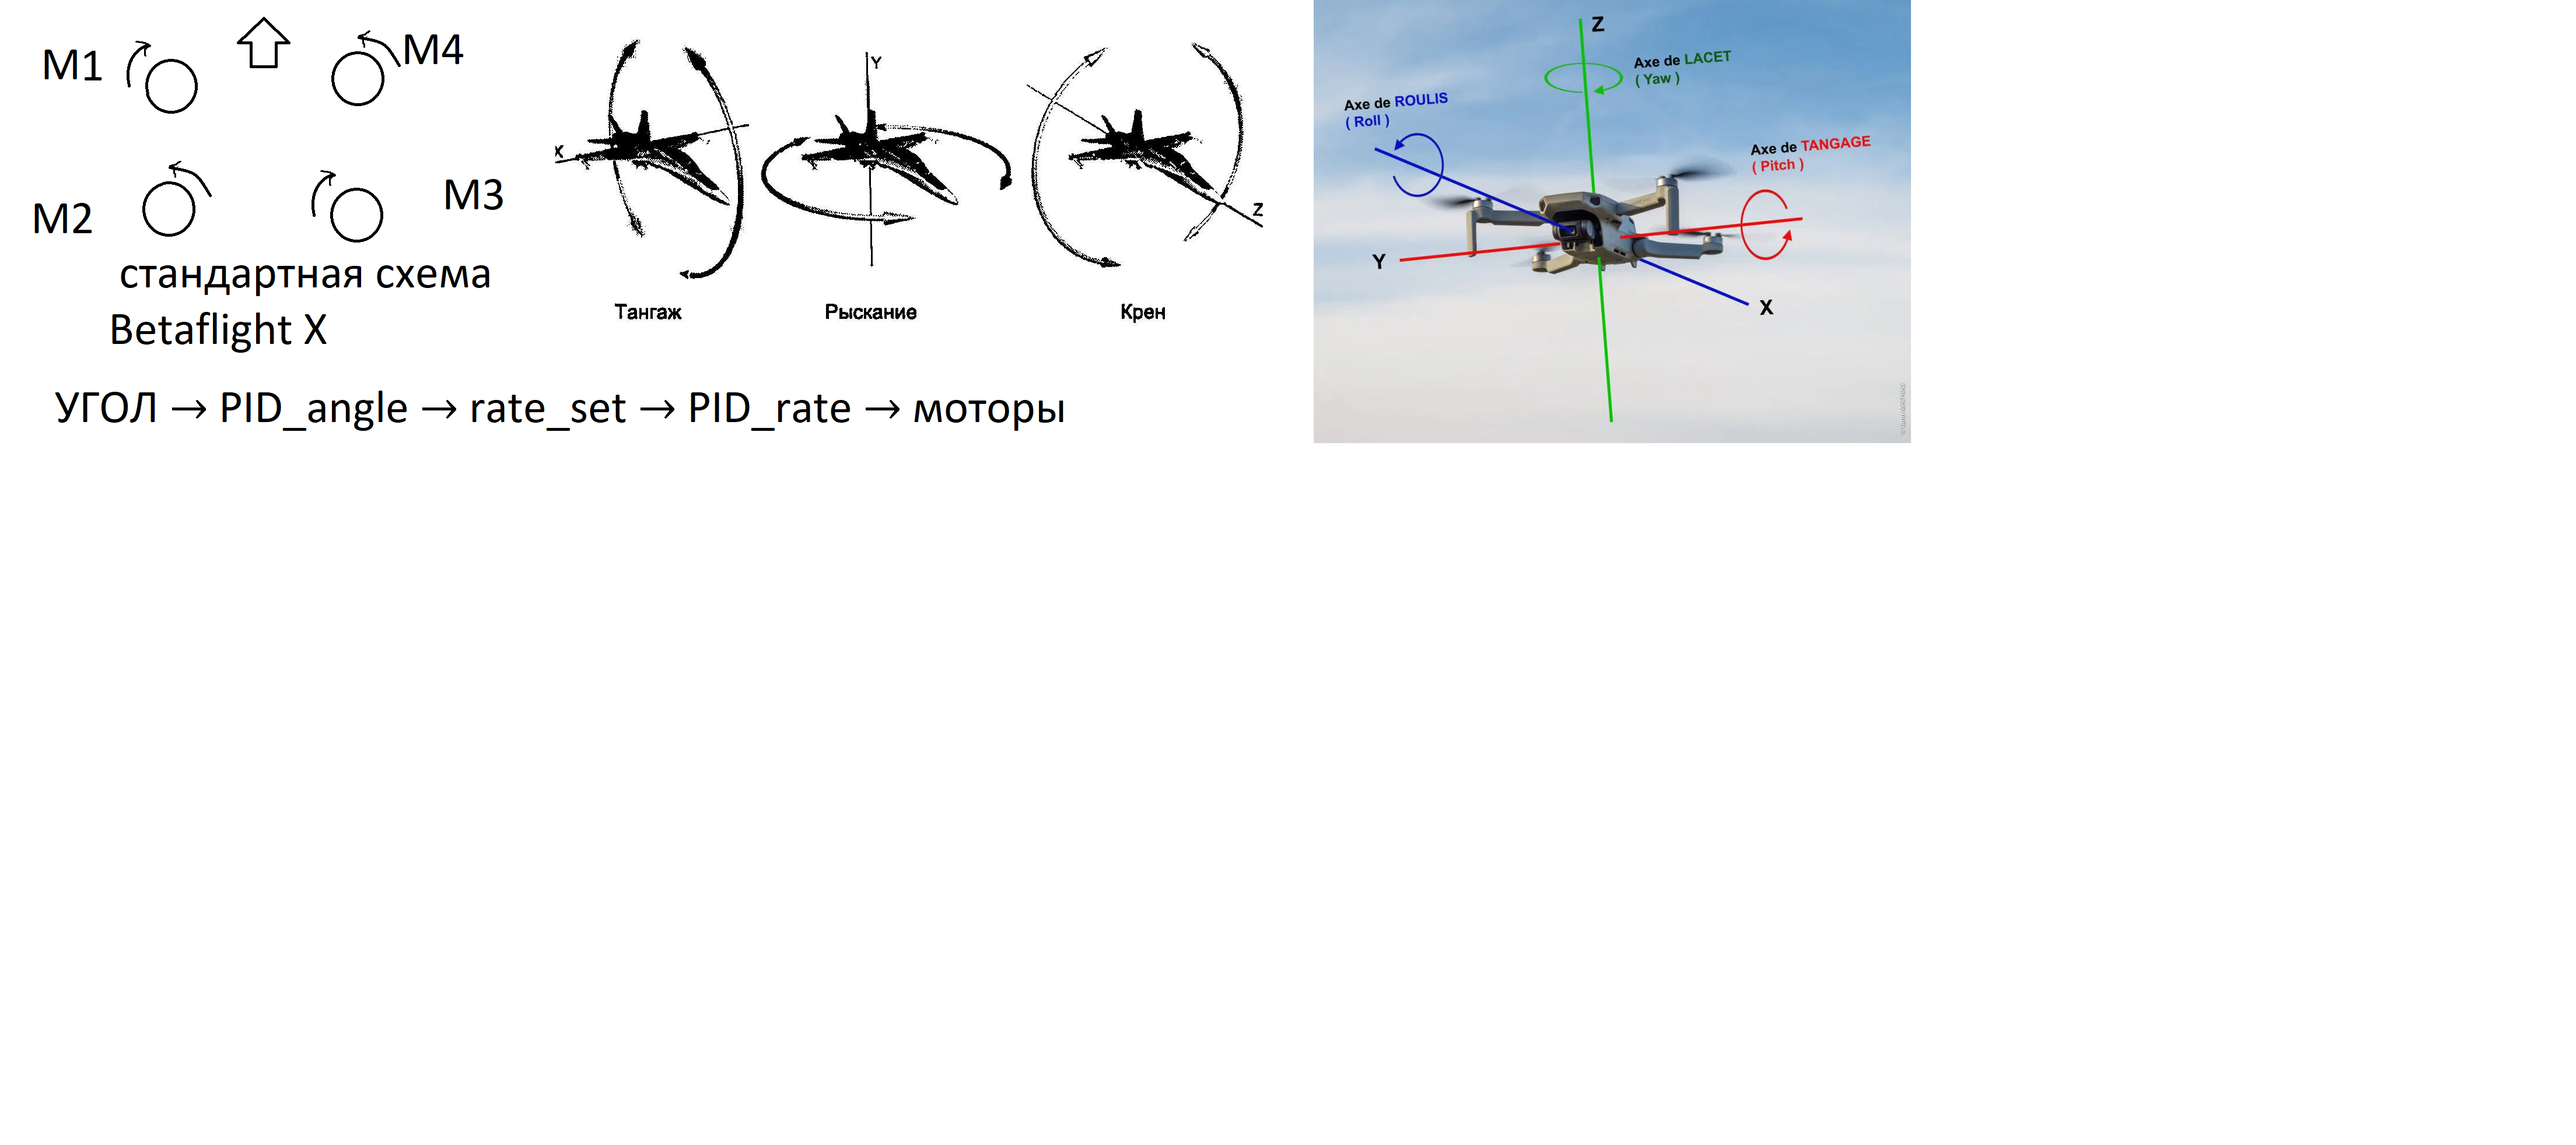
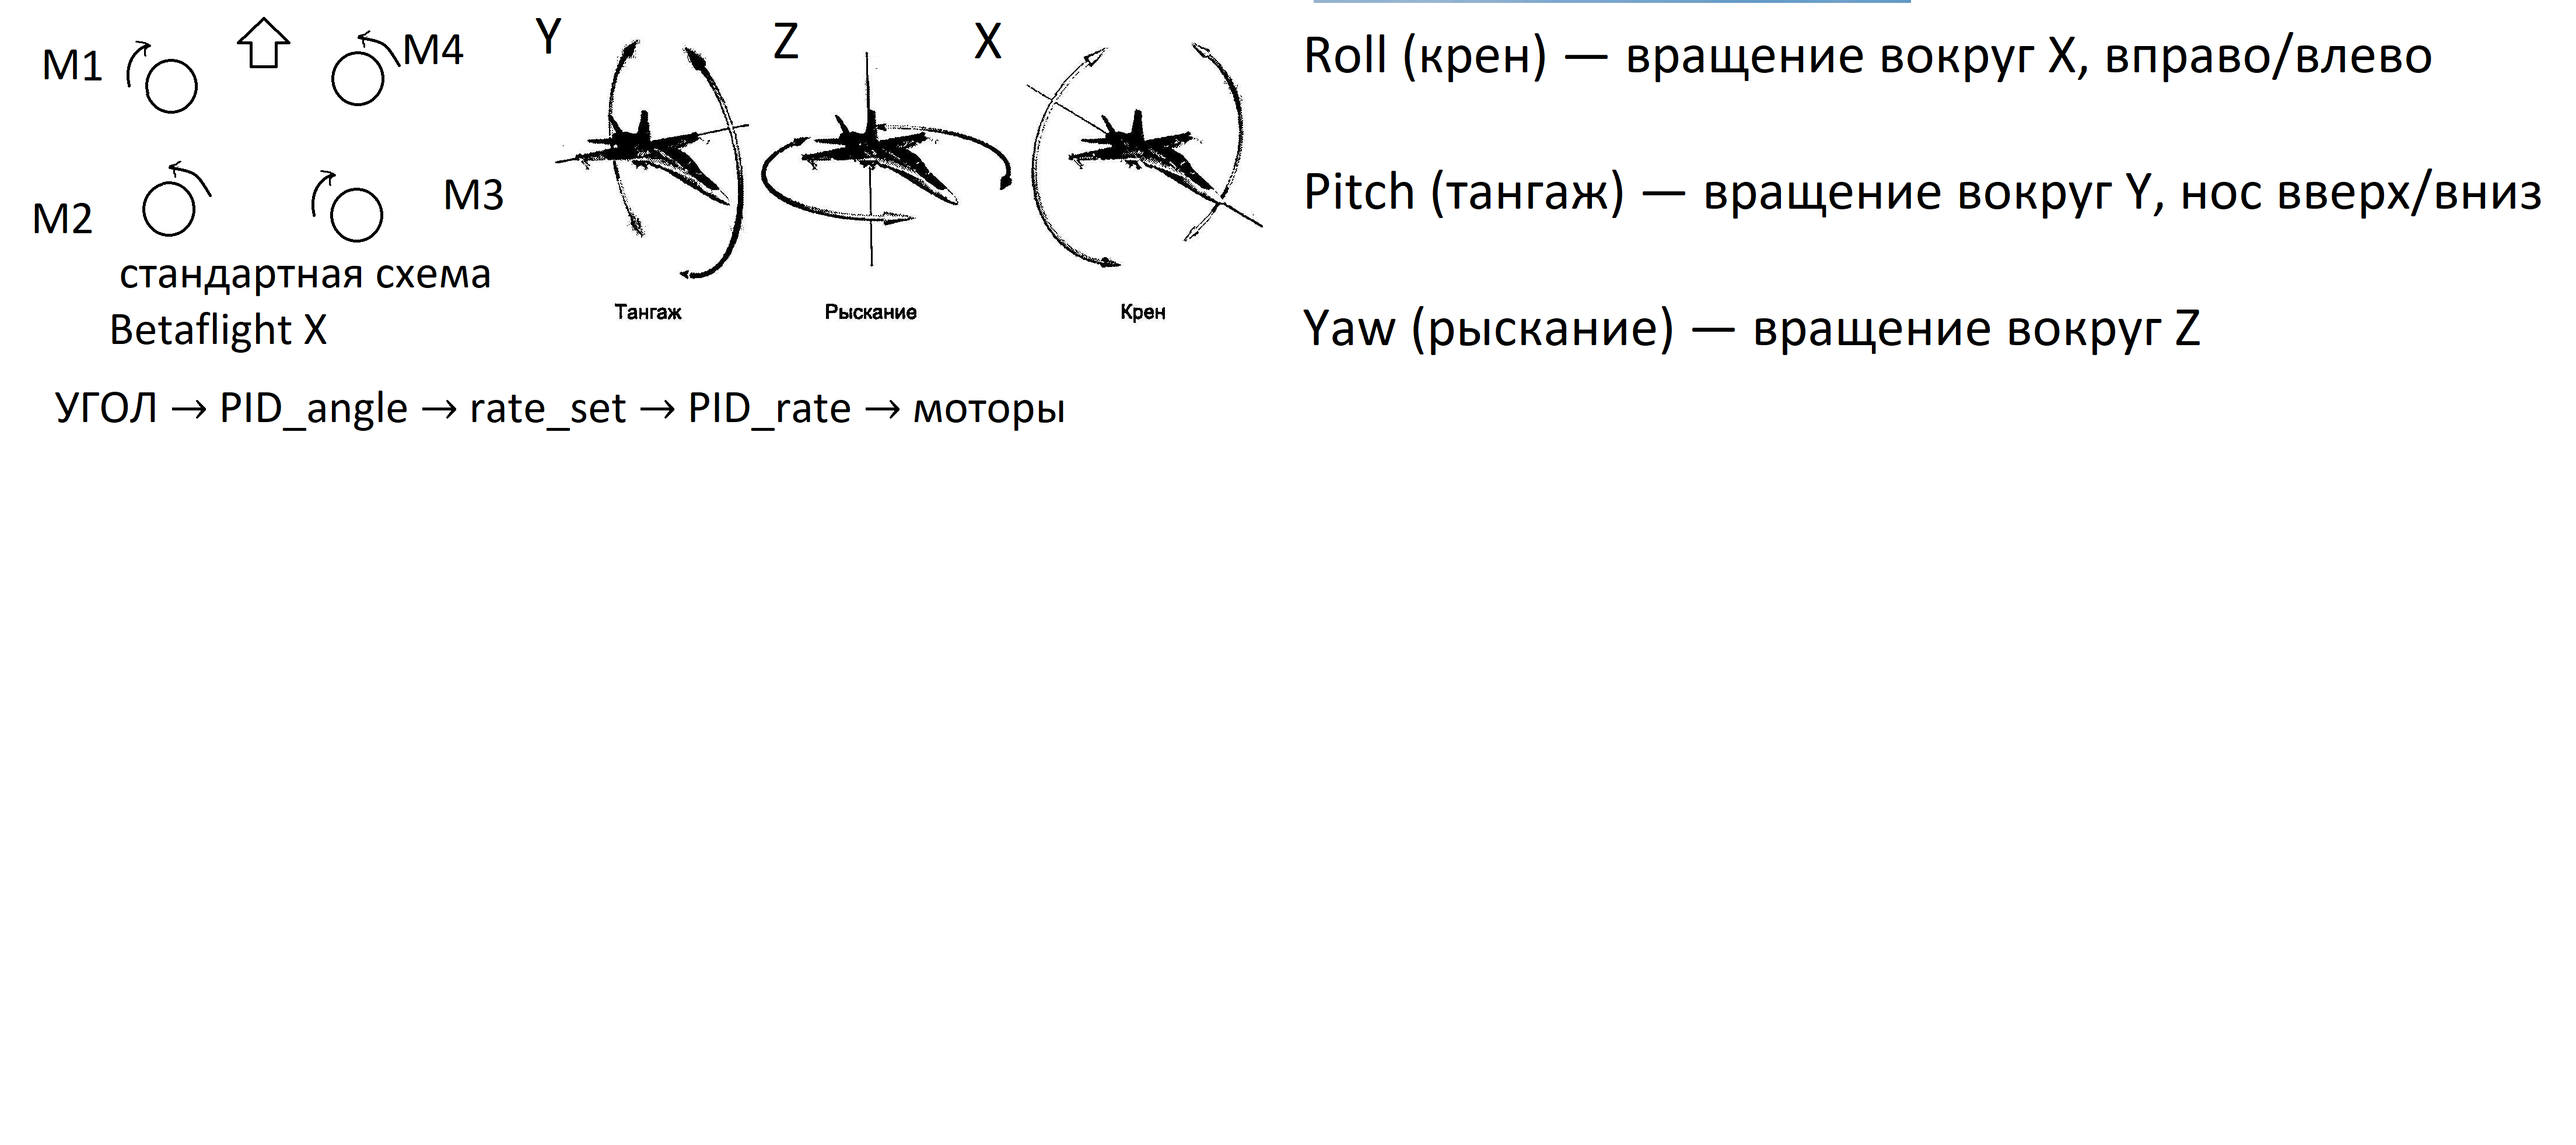
last

Changed region(s): [[0.5, 0.0, 1.0, 0.4038]]

diff --git a/3/imu.c b/3/imu.c
@@ -13,6 +13,7 @@ volatile int16_t  imu_gz = 0;
 volatile int16_t  imu_temp_raw = 0;
 volatile float    imu_temp_c = 0.0f;
 
+
 // ---------------- FILTERED / PROCESSED DATA ----------------
 float accel_x = 0;
 float accel_y = 0;
@@ -27,9 +28,10 @@ float gyro_pitch_rate = 0.0f;
 float gyro_yaw_rate   = 0.0f;
 
 // ---------------- GYRO BIAS ----------------
-float gyro_bias_x = 0.0f;
-float gyro_bias_y = 0.0f;
-float gyro_bias_z = 0.0f;
+float gyro_bias_x = -43.0f;
+float gyro_bias_y = 201.0f;
+float gyro_bias_z = 20.0f;
+
 
 // ---------------- ANGLES ----------------
 float roll_angle = 0;
@@ -46,6 +48,11 @@ typedef struct {
 static biquad_t accel_x_lpf;
 static biquad_t accel_y_lpf;
 static biquad_t accel_z_lpf;
+
+static biquad_t gyro_x_lpf;
+static biquad_t gyro_y_lpf;
+static biquad_t gyro_z_lpf;
+
 
 static void biquad_init(biquad_t *f, float cutoff, float sample_rate) {
     float omega = 2.0f * 3.1415926f * cutoff / sample_rate;
@@ -154,11 +161,17 @@ void IMU_Init(void) {
     biquad_init(&accel_x_lpf, 30.0f, 1000.0f);
     biquad_init(&accel_y_lpf, 30.0f, 1000.0f);
     biquad_init(&accel_z_lpf, 30.0f, 1000.0f);
+      
+    biquad_init(&gyro_x_lpf, 120.0f, 1000.0f);
+    biquad_init(&gyro_y_lpf, 120.0f, 1000.0f);
+    biquad_init(&gyro_z_lpf, 120.0f, 1000.0f);
+
 }
 
 // ---------------- GYRO CALIBRATION ----------------
-void IMU_CalibrateGyro(void) {
-    const int N = 1000;
+void IMU_CalibrateGyro(void)
+{
+    const int N = 2000;
     int32_t sum_x = 0, sum_y = 0, sum_z = 0;
 
     for (int i = 0; i < N; i++) {
@@ -173,12 +186,15 @@ void IMU_CalibrateGyro(void) {
         sum_x += gx;
         sum_y += gy;
         sum_z += gz;
+
+        for (volatile int d = 0; d < 3000; d++) __NOP(); // 2–3 ms задержка
     }
 
     gyro_bias_x = (float)sum_x / N;
     gyro_bias_y = (float)sum_y / N;
     gyro_bias_z = (float)sum_z / N;
 }
+
 
 // ---------------- MAIN IMU READ ----------------
 void IMU_ReadAccelGyro(void) {
@@ -205,21 +221,28 @@ void IMU_ReadAccelGyro(void) {
     float ay = accel_y / 16384.0f;
     float az = accel_z / 16384.0f;
 
-    float roll_acc  = atan2f(ax, az) * 57.2958f;
-    float pitch_acc = atan2f(-ay, sqrtf(ax*ax + az*az)) * 57.2958f;
+    float pitch_acc  = atan2f(ax, az) * 57.2958f;
+    float roll_acc = atan2f(-ay, sqrtf(ax*ax + az*az)) * 57.2958f;
     pitch_acc += pitch_trim_deg;
+
 
     // -------- APPLY BIAS --------
     float gx_raw = (float)imu_gx - gyro_bias_x;
     float gy_raw = (float)imu_gy - gyro_bias_y;
-    float gz_raw = (float)imu_gz - gyro_bias_z;
+    float gz_raw = (float)imu_gz - gyro_bias_z;  
+      
+    gx_raw = biquad_apply(&gyro_x_lpf, gx_raw);
+    gy_raw = biquad_apply(&gyro_y_lpf, gy_raw);
+    gz_raw = biquad_apply(&gyro_z_lpf, gz_raw);
+    
 
     // -------- CONVERT TO DEG/SEC --------
     const float scale = (2000.0f / 32768.0f);
 
-    gyro_roll_rate  = gx_raw * scale;
-    gyro_pitch_rate = gy_raw * scale;
-    gyro_yaw_rate   = gz_raw * scale;
+    gyro_roll_rate = gy_raw * scale; 
+    gyro_pitch_rate = gx_raw * scale; 
+    gyro_yaw_rate = gz_raw * scale;
+      
 
     // -------- INTEGRATE --------
     float dt = 0.001f;

diff --git a/3/pid.c b/3/pid.c
@@ -14,9 +14,9 @@ static float pid_yaw_ki = 0.0f;
 static float pid_yaw_kd = 0.0f;
 
 // Коэффициенты только для roll (ось X)
-static float pid_roll_kp = 0.3f;   //0.3
+static float pid_roll_kp = 0.05f;   //0.3
 static float pid_roll_ki = 0.0f;
-static float pid_roll_kd = 0.5f;   //0.5
+static float pid_roll_kd = 0.35f;   //0.5
 
 // Коэффициенты только для pitch (ось Y)
 static float pid_pitch_kp = 0.0f;   //  0.5
@@ -39,8 +39,8 @@ void PID_Update(void)
     float yaw_rate   = gyro_yaw_rate;
 
     // === 2. Стики → желаемые углы ===
+    float roll_angle_set = -(rc_channels[0] - 1024) * 0.05f;
     float pitch_angle_set = -(rc_channels[1] - 1024) * 0.05f;
-    float roll_angle_set  = -(rc_channels[0] - 1024) * 0.05f;
     float yaw_rate_set    = -(rc_channels[3] - 1024) * 0.5f;
 
     // === 3. Ошибка по углам ===
@@ -48,7 +48,7 @@ void PID_Update(void)
     float roll_angle_error  = roll_angle_set  - roll_angle;
 
     // === 4. Внешний контур (ANGLE → RATE) ===
-    float angle_kp = 1.0f;
+    float angle_kp = 3.0f;
 
     float pitch_rate_set = angle_kp * pitch_angle_error;
     float roll_rate_set  = angle_kp * roll_angle_error;
@@ -69,4 +69,6 @@ void PID_Update(void)
     // --- Yaw ---
     float yaw_error = yaw_rate_set - yaw_rate;
     pid_yaw_output = pid_yaw_kp * yaw_error;
-}
+} 
+
+

diff --git a/3/mixer.c b/3/mixer.c
@@ -15,14 +15,14 @@ void Mixer_Update(void) {
     if (thr < 1050) thr = 1050;
     if (thr > 2000) thr = 2000;
 
-    // === миксер под твою схему:
+    // === миксер под схему:
     // M1 (front-left, CW)
     // M4 (front-right, CCW)
     // M2 (rear-left, CCW)
     // M3 (rear-right, CW)
-    int m1 = (int)(thr + pitch - roll + yaw);
-    int m4 = (int)(thr + pitch + roll - yaw);
-    int m2 = (int)(thr - pitch - roll - yaw);
+    int m1 = (int)(thr + pitch - roll - yaw);
+    int m4 = (int)(thr + pitch + roll + yaw);
+    int m2 = (int)(thr - pitch + roll - yaw);
     int m3 = (int)(thr - pitch - roll + yaw);
 
 
